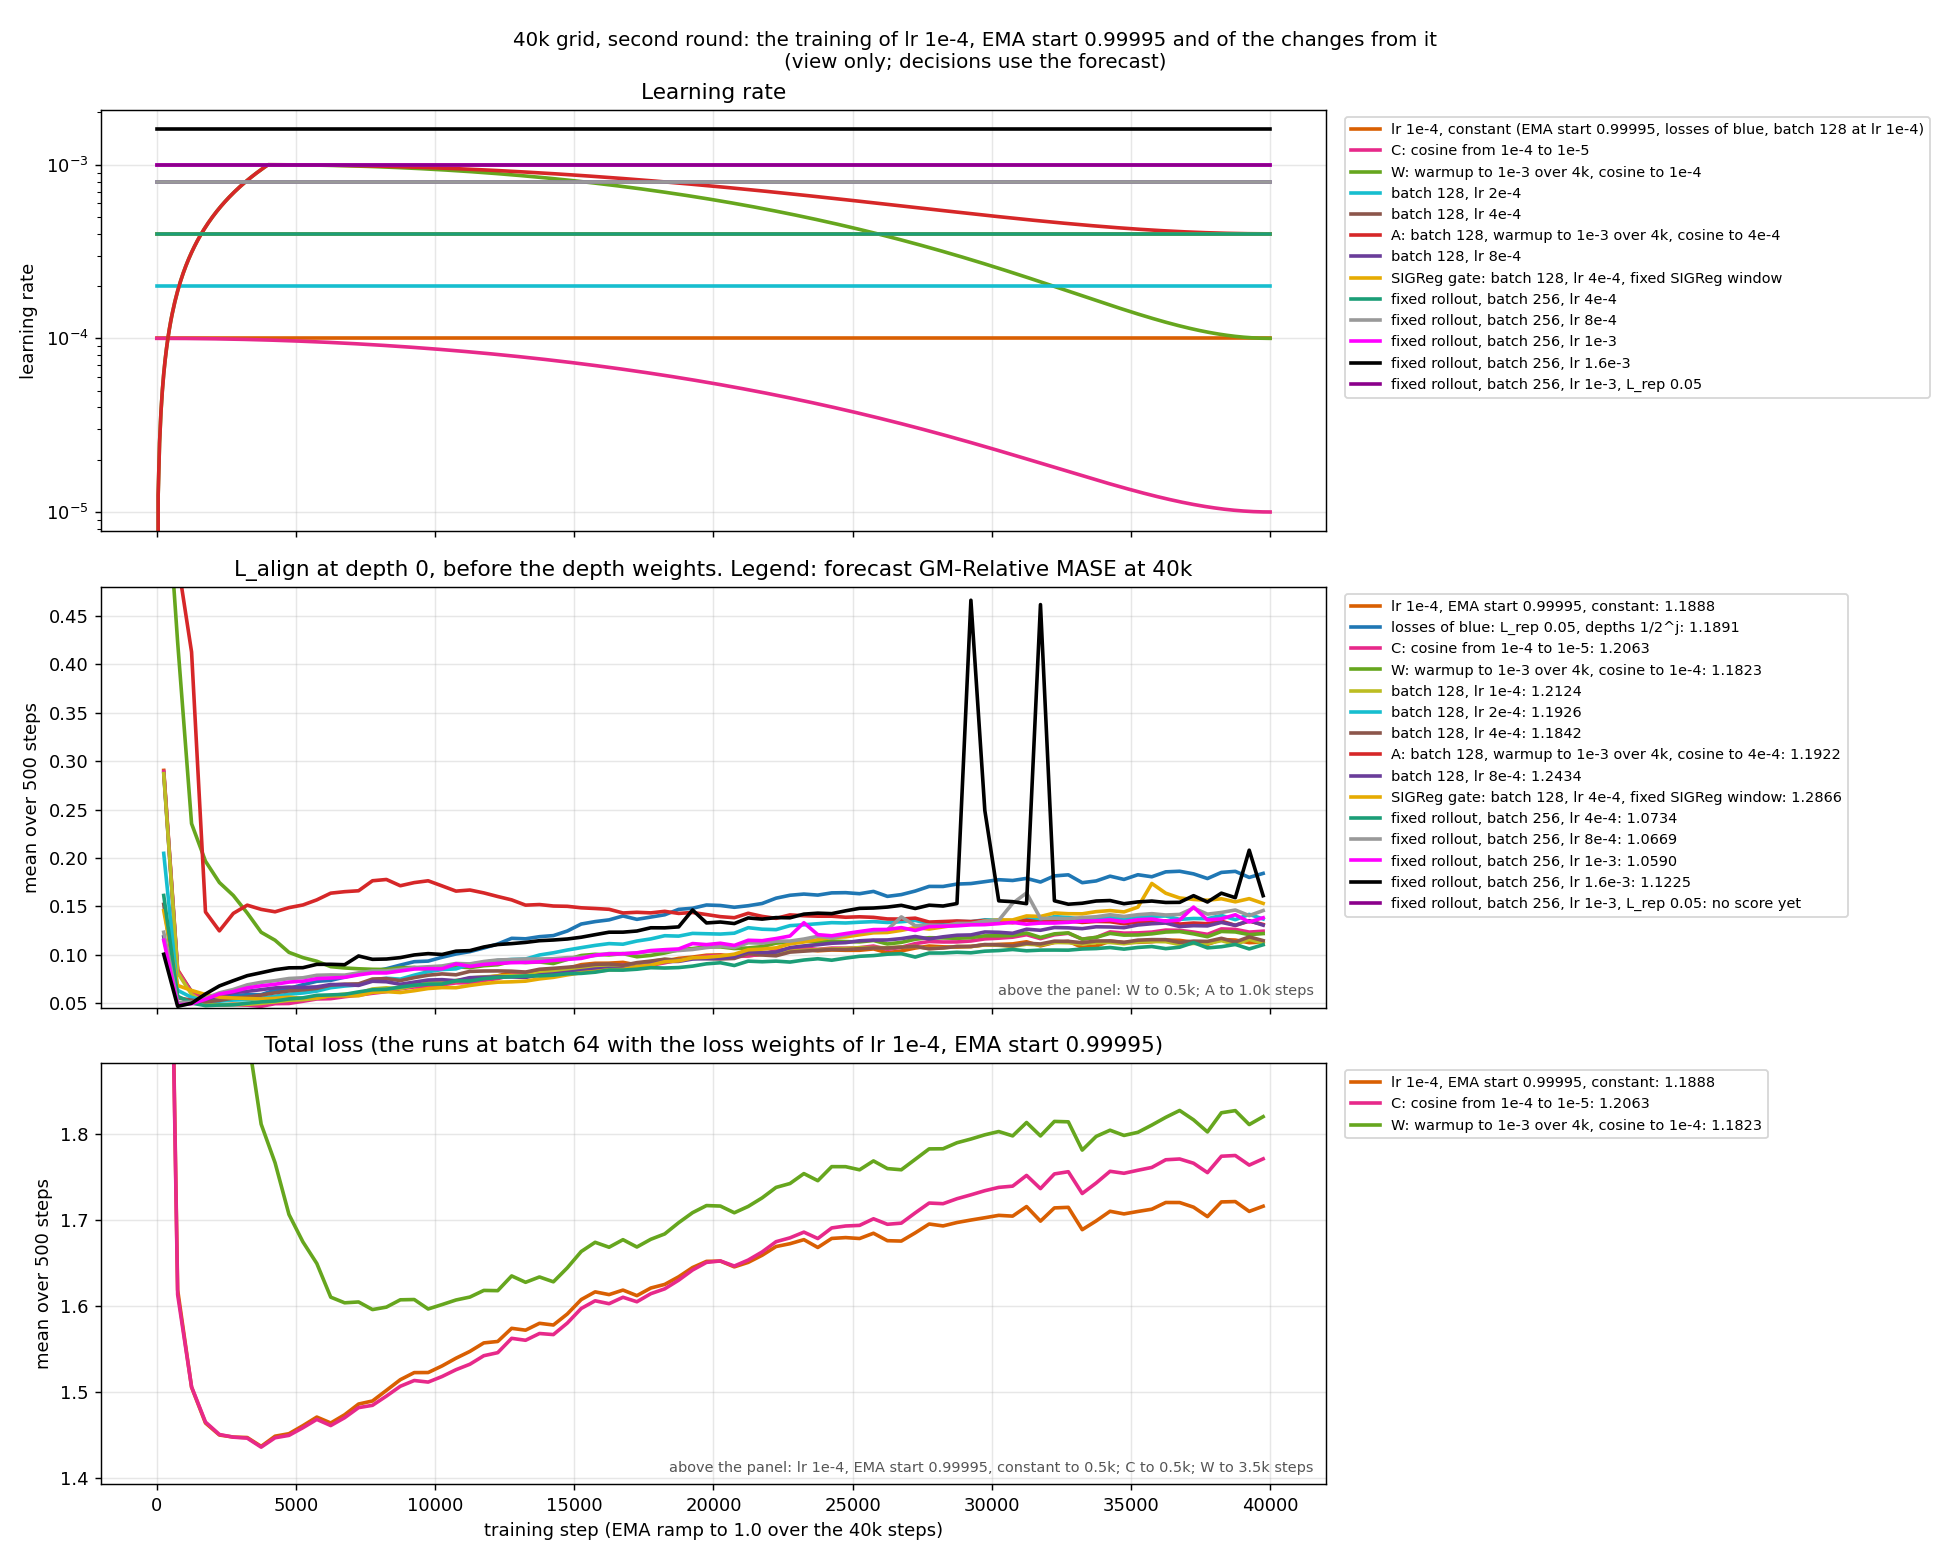
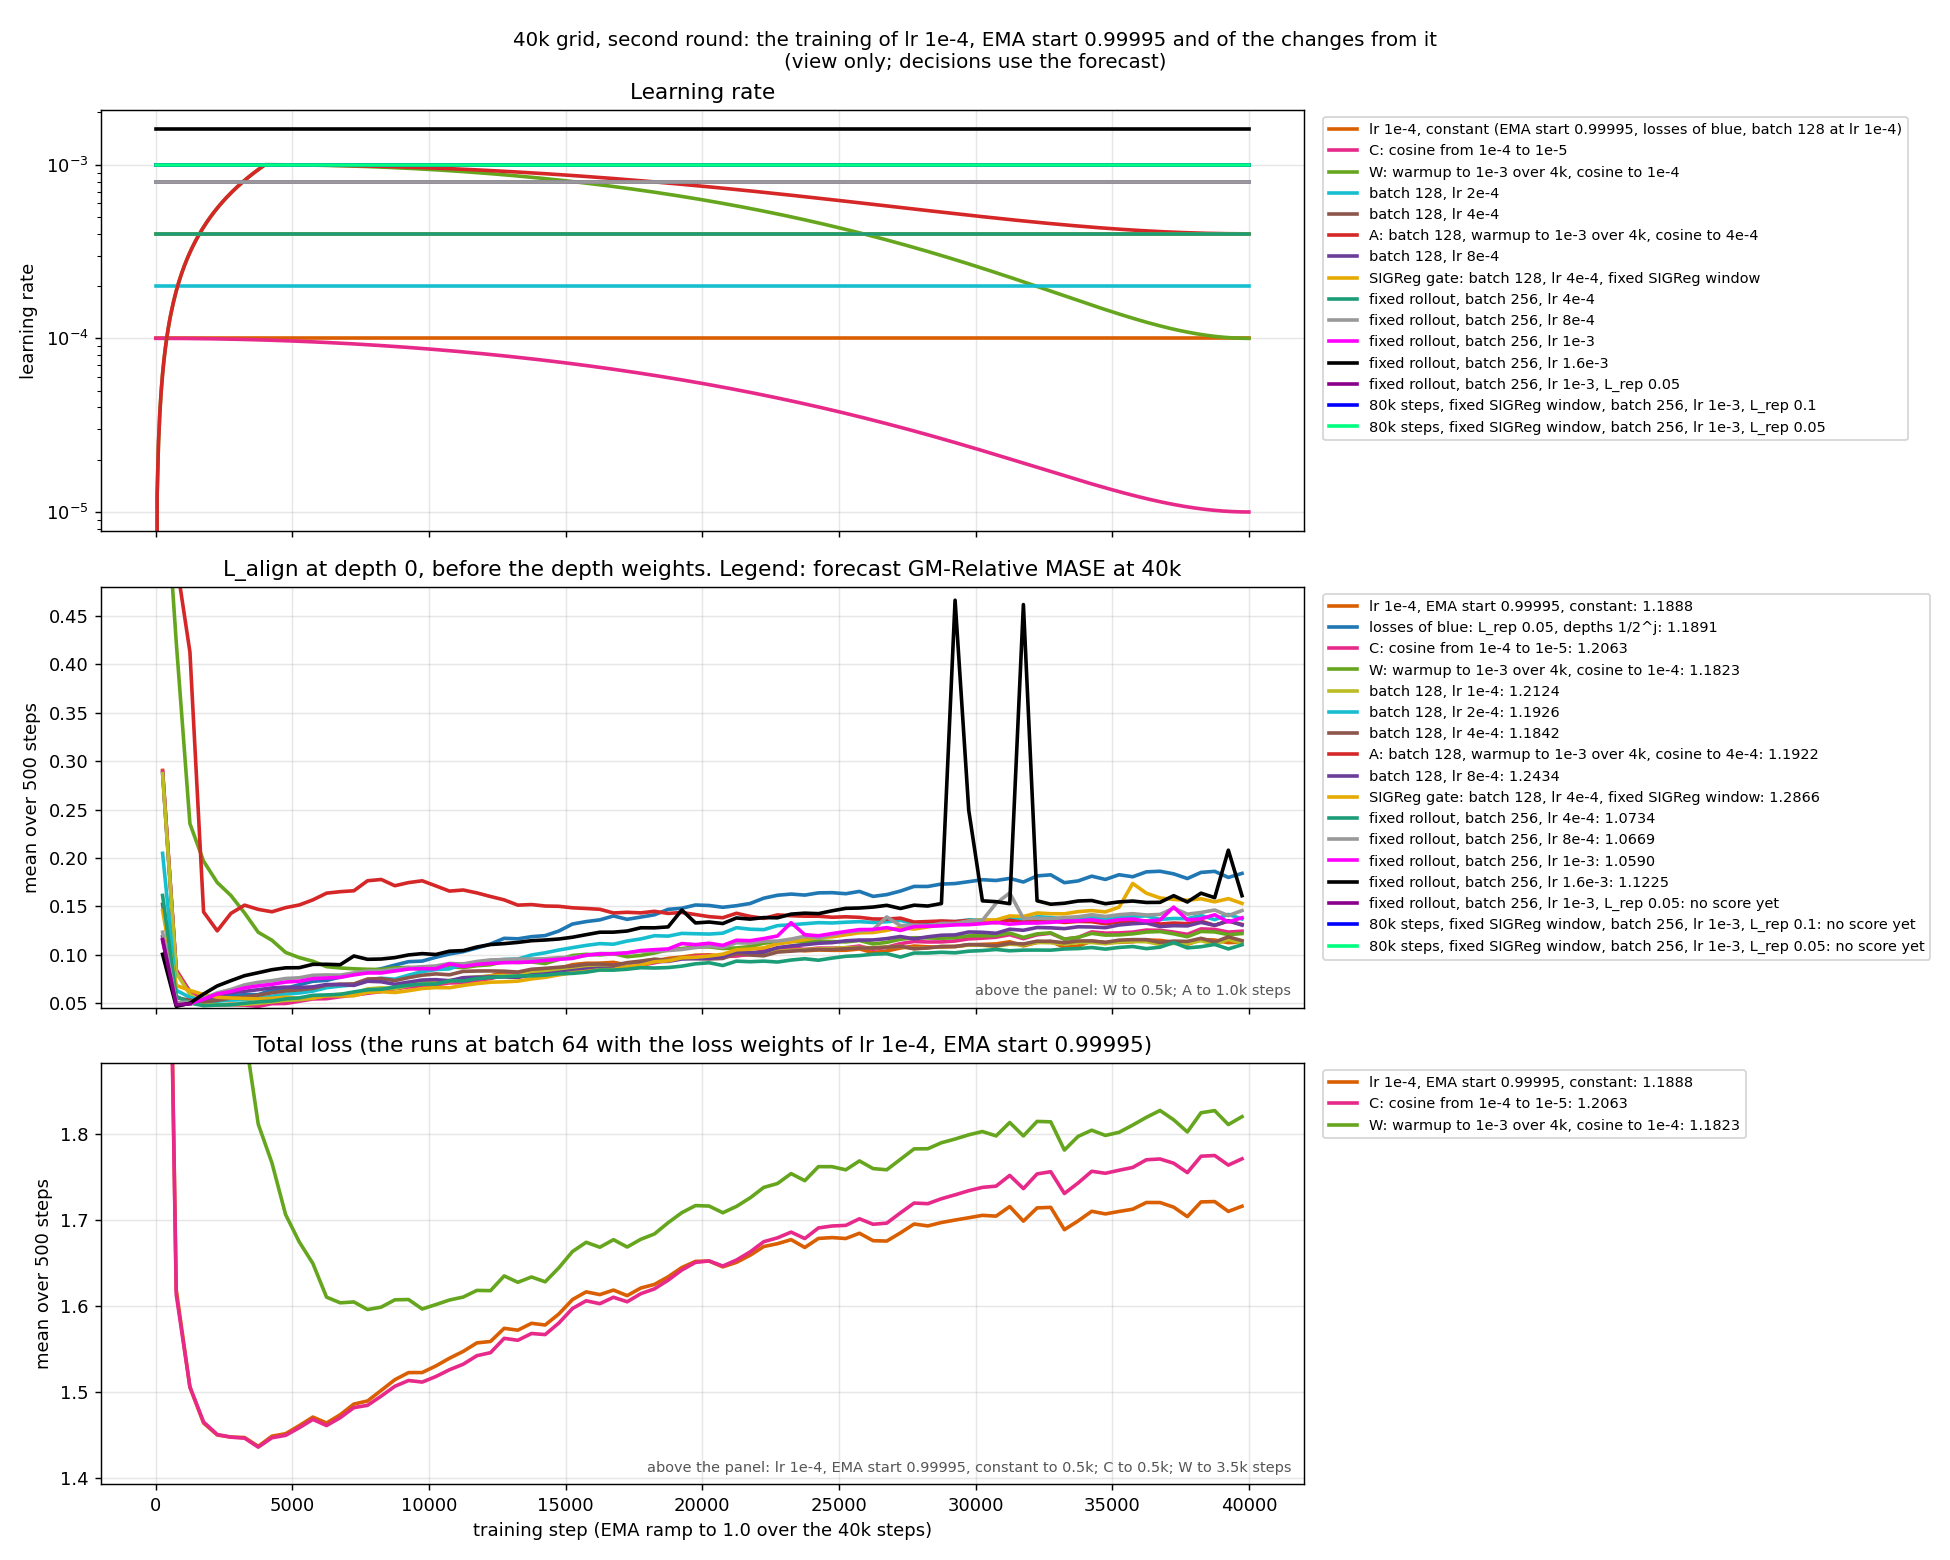
Batch 128 at lr 4e-4 rescored with the fixed rollout: 1.2440 (raw rollout 1.1842); the two 80k runs at lr 1e-3 start at once

diff --git a/reports/2026-10-10_frequency_family_head/scripts/plot_grid40k.py b/reports/2026-10-10_frequency_family_head/scripts/plot_grid40k.py
@@ -10,8 +10,9 @@ EMA start 0.99995, each with one change (the losses of blue or an lr
 schedule); batch 128 at the lr 1e-4, 2e-4, 4e-4 and 8e-4, and with the warmup
 of W and a cosine to 4e-4. Batch 256 runs on the fixed code (the user, 11-03):
 the constant lr 4e-4, 8e-4, 1e-3 and 1.6e-3, then L_rep 0.05 at the best of them
-(1e-3; the user's plan of 11-04). The grey rows are the next planned runs: 80k
-steps with the fixed SIGReg window at both L_rep weights. Its panel has that cell as its first row.
+(1e-3; the user's plan of 11-04), and 80k steps at lr 1e-3 with the fixed SIGReg
+window at both L_rep weights, at the same time (the user, 11-05). A grey row is a
+planned run. Its panel has that cell as its first row.
 
 Each cell is the forecast GM-Relative MASE of head B4 at 40k (30k head steps,
 97 configs). Lower is better. A grey cell has no score yet. A red frame marks
@@ -67,13 +68,14 @@ ROUND2 = {BEST: ("lr 1e-4, EMA start 0.99995\n(no change)", "1e-4"),
           "g40b_lr1p6em3_tau99995_bs256_rollfix": ("FIXED ROLLOUT, batch 256, lr 1.6e-3\n(scored with the fixed rollout)",
                                                    "1.6e-3"),
           "g40b_lr1em3_tau99995_bs256_rep005_rollfix": ("FIXED ROLLOUT, batch 256, lr 1e-3,\nL_rep 0.05 (scored with the fixed rollout)",
-                                                        "1e-3")}
+                                                        "1e-3"),
+          "g80b_lr1em3_tau99995_bs256_rep01_sigfix_rollfix": (
+              "FIXED ROLLOUT, batch 256, lr 1e-3, L_rep 0.1,\nfixed SIGReg window, 80k steps (score at 40k)", "1e-3"),
+          "g80b_lr1em3_tau99995_bs256_rep005_sigfix_rollfix": (
+              "FIXED ROLLOUT, batch 256, lr 1e-3, L_rep 0.05,\nfixed SIGReg window, 80k steps (score at 40k)", "1e-3")}
 # The planned runs of the search, not started: (row label, when). The user (11-03 about
 # 21:05 UTC): the heatmap shows them; each one moves into ROUND2 when it starts.
-PLANNED = [("PLANNED, FIXED ROLLOUT, batch 256,\n80k steps, fixed SIGReg window,\nlr 1e-3, the better L_rep weight",
-            "starts at the L_rep 0.05 score"),
-           ("PLANNED, FIXED ROLLOUT, batch 256,\n80k steps, fixed SIGReg window,\nlr 1e-3, the other L_rep weight",
-            "starts at the L_rep 0.05 score")]
+PLANNED = []
 # run -> its colour in the radar and in the training figure of the second round
 ROUND2_COLOURS = {BEST: "#d95f02", "g40b_lr1em4_tau99995_rep005h": "#1f77b4",
                   "g40c_lr1em4_tau99995_cos": "#e7298a", "g40w_lr1em3_wu4k_cos": "#66a61e",
@@ -82,7 +84,9 @@ ROUND2_COLOURS = {BEST: "#d95f02", "g40b_lr1em4_tau99995_rep005h": "#1f77b4",
                   "g40b_lr8em4_tau99995_bs128": "#6a3d9a", "g40b_lr4em4_tau99995_bs128_sigfix": "#e6ab02",
                   "g40b_lr4em4_tau99995_bs256_rollfix": "#1b9e77", "g40b_lr8em4_tau99995_bs256_rollfix": "#999999",
                   "g40b_lr1em3_tau99995_bs256_rollfix": "#ff00ff", "g40b_lr1p6em3_tau99995_bs256_rollfix": "#000000",
-                  "g40b_lr1em3_tau99995_bs256_rep005_rollfix": "#8b008b"}
+                  "g40b_lr1em3_tau99995_bs256_rep005_rollfix": "#8b008b",
+                  "g80b_lr1em3_tau99995_bs256_rep01_sigfix_rollfix": "#0000ff",
+                  "g80b_lr1em3_tau99995_bs256_rep005_sigfix_rollfix": "#00ff7f"}
 
 
 def run_score(run):
@@ -202,7 +206,7 @@ def draw_round2(ax, round2, low, high):
     ax.set_yticks(range(len(labels)), labels, fontsize=9)
     scored = int(np.sum(~np.isnan(round2[1:len(ROUND2), 0])))
     ax.set_title(f"Second round: changes from lr 1e-4, EMA start 0.99995\n"
-                 f"({scored} of {len(ROUND2) - 1} scored, {len(PLANNED)} planned)")
+                 f"({scored} of {len(ROUND2) - 1} scored" + (f", {len(PLANNED)} planned)" if PLANNED else ")"))
 
 
 def main():

diff --git a/reports/2026-10-10_frequency_family_head/scripts/plot_grid40k_round2.py b/reports/2026-10-10_frequency_family_head/scripts/plot_grid40k_round2.py
@@ -7,7 +7,8 @@ steps, then a cosine to 1e-4), batch 128 at the lr 1e-4, 2e-4, 4e-4 and 8e-4, A:
 batch 128 with the warmup of W, then a cosine to 4e-4, and the SIGReg gate: batch
 128 at lr 4e-4 with the SIGReg window fix of #438, and batch 256 at the lr 4e-4, 8e-4,
 1e-3 and 1.6e-3, and at lr 1e-3 with L_rep 0.05, with the fixed rollout of #446
-and #447 (the old SIGReg window). Three panels on one step axis, means over bins
+and #447 (the old SIGReg window), and at lr 1e-3 for 80k steps with the fixed SIGReg
+window at L_rep 0.1 and 0.05. Three panels on one step axis, means over bins
 of 500 steps:
 
   1. The lr of each step, from the flags of the run (the formula of
@@ -64,6 +65,10 @@ RUNS = {
                                              (1.6e-3, 1.6e-3, STEPS, 0), False),
     "g40b_lr1em3_tau99995_bs256_rep005_rollfix": ("fixed rollout, batch 256, lr 1e-3, L_rep 0.05",
                                                   (1e-3, 1e-3, STEPS, 0), False),
+    "g80b_lr1em3_tau99995_bs256_rep01_sigfix_rollfix": ("80k steps, fixed SIGReg window, batch 256, lr 1e-3, L_rep 0.1",
+                                                        (1e-3, 1e-3, STEPS, 0), False),
+    "g80b_lr1em3_tau99995_bs256_rep005_sigfix_rollfix": ("80k steps, fixed SIGReg window, batch 256, lr 1e-3, L_rep 0.05",
+                                                         (1e-3, 1e-3, STEPS, 0), False),
 }
 
 

diff --git a/reports/2026-10-10_frequency_family_head/frequency_family_head.md b/reports/2026-10-10_frequency_family_head/frequency_family_head.md
@@ -87,9 +87,10 @@ They train with the normalised rollout feedback of #447, and their scores use th
 At batch 256, the constant learning rates 4e-4, 8e-4, 1e-3 and 1.6e-3 give 1.0734, 1.0669, 1.0590 and 1.1225.
 The lowest score is at 1e-3.
 Compared with 8e-4, the score at 1e-3 is lower on the medium and long horizons (1.1605 and 1.1546 against 1.1852 and 1.1728).
-At 1e-3, a run with L_rep 0.05 trains now.
-The grey rows of the heat map show the next planned runs: 80k steps with the SIGReg window fix at the two L_rep weights.
-The right column of the second round is for the rescore of batch 128 at 4e-4 with the fixed rollout.
+At 1e-3, three runs train now: L_rep 0.05 for 40k steps, and L_rep 0.1 and 0.05 for 80k steps with the SIGReg window fix.
+With the fixed rollout, batch 128 at 4e-4 gets 1.2440, and 1.1842 with the raw rollout (the right column).
+This run trained with the raw rollout feedback.
+At 40k, the fixed rollout also gives higher scores for violet (1.1948 against 1.1430) and blue (1.2337 against 1.1944), the two muP runs with the flags of the grid.
 The other scores of the grid use the raw rollout feedback, so compare a batch-256 score only with the other batch-256 scores.
 The largest change is on m4_hourly: 2.29 for batch 256 at 8e-4, 4.89 for batch 128 at 4e-4 and 1.55 for MPE.
 
